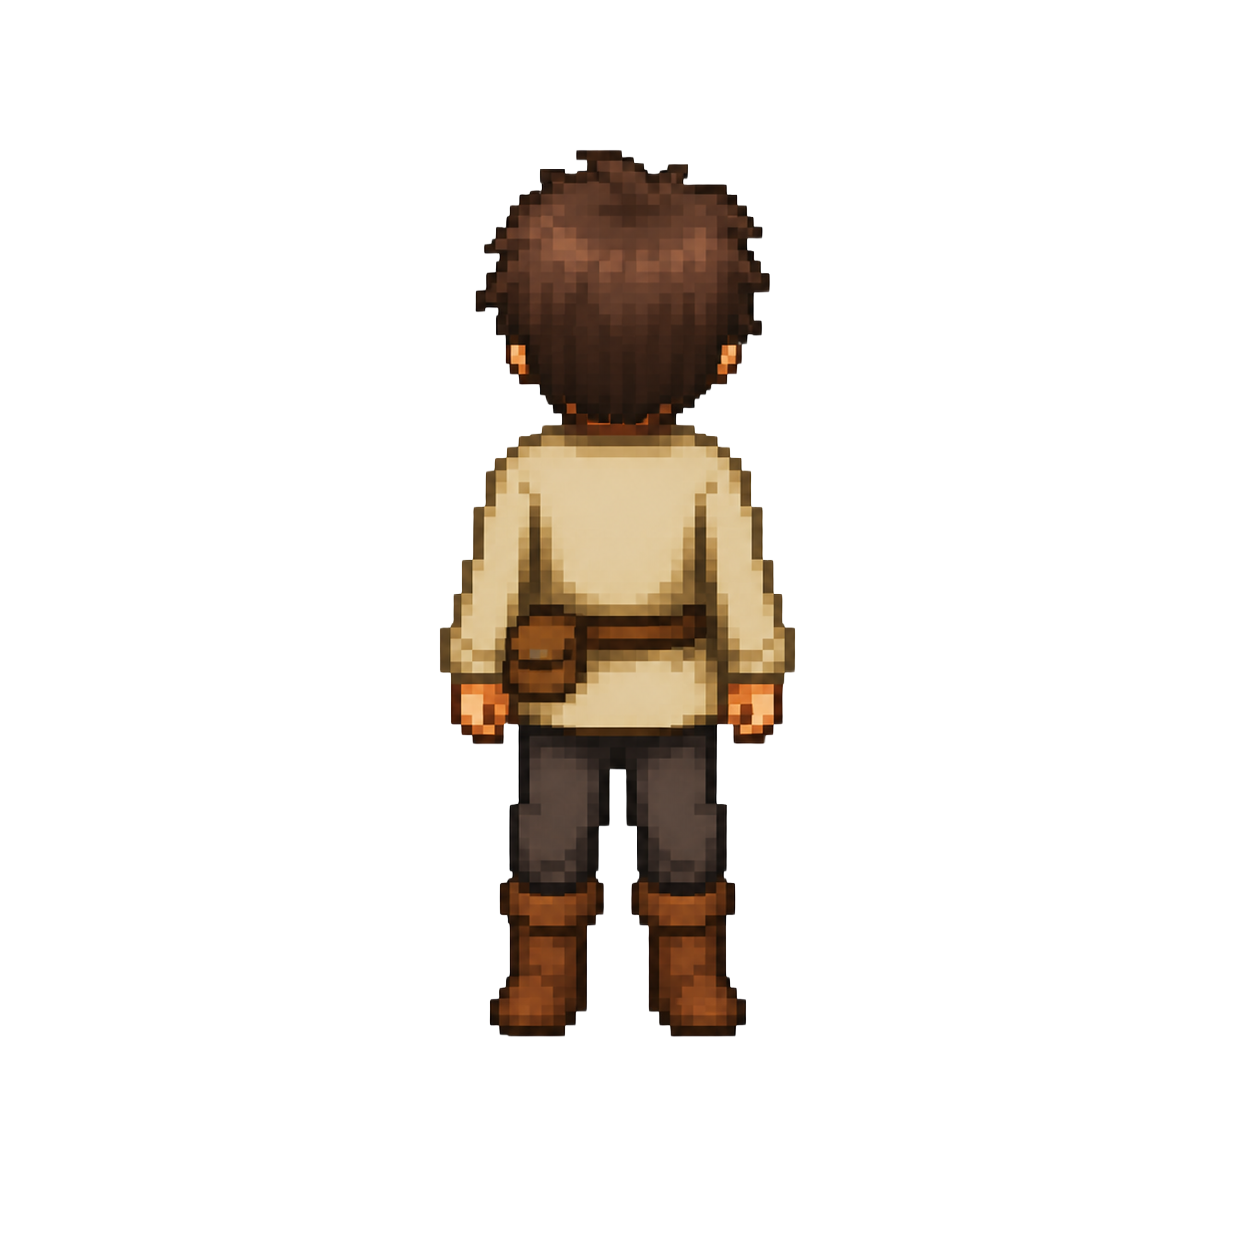
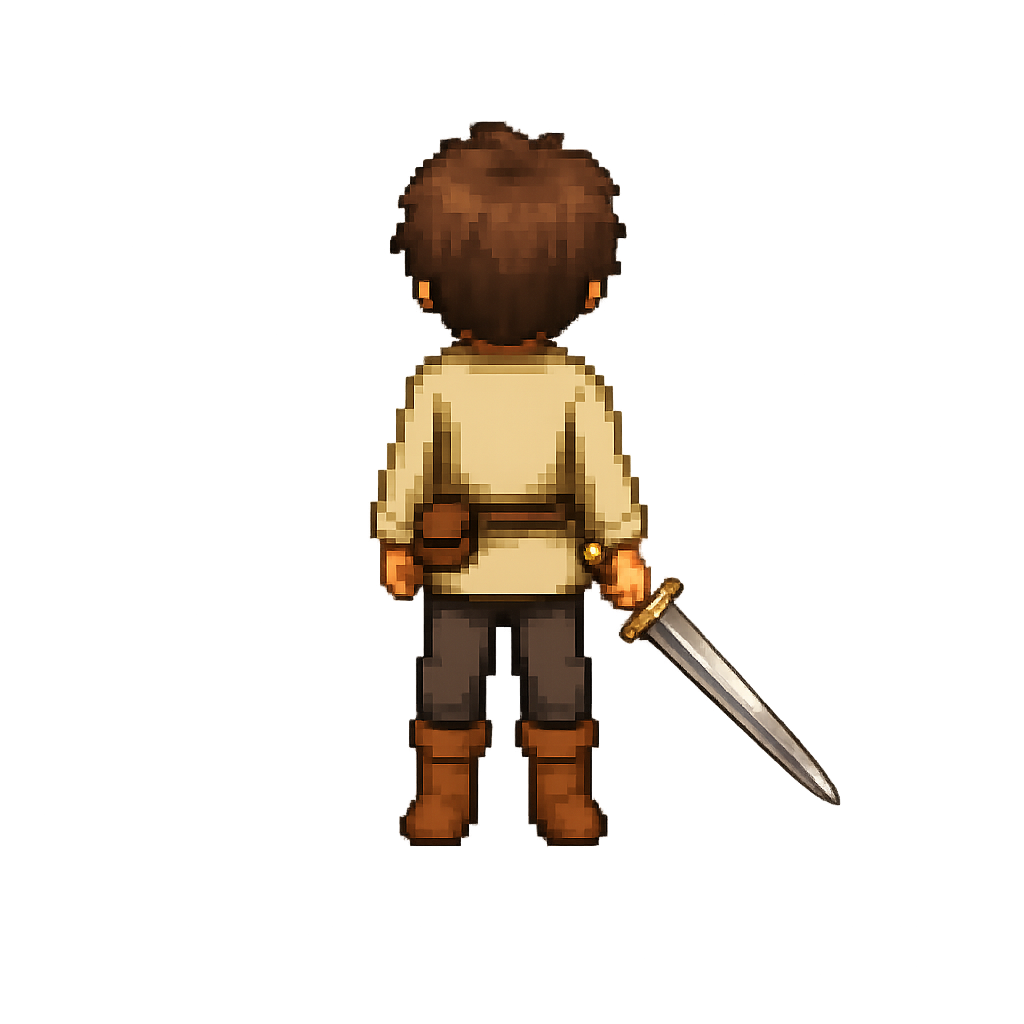
Update game files

diff --git a/data/enemyData.js b/data/enemyData.js
@@ -70,7 +70,7 @@ export const enemyData = {
     id: 'trainingDummy',
     name: 'Number Dummy',
     imageKey: 'enemy_number_dummy',
-    imageDisplay: { width: 95, height: 110, offsetX: 0, offsetY: -8 },
+    imageDisplay: { width: 95, height: 110, offsetX: 0, offsetY: -20 },
     hp: 18,
     attack: 2,
     goldReward: 0,
@@ -87,7 +87,7 @@ export const enemyData = {
     id: 'slime',
     name: 'Even Slime',
     imageKey: 'enemy_even_slime',
-    imageDisplay: { width: 100, height: 100, offsetX: 0, offsetY: 8 },
+    imageDisplay: { width: 100, height: 100, offsetX: 0, offsetY: 4 },
     hp: 30,
     attack: 3,
     goldReward: 10,
@@ -111,7 +111,7 @@ export const enemyData = {
     id: 'bat',
     name: 'Odd Bat',
     imageKey: 'enemy_odd_bat',
-    imageDisplay: { width: 120, height: 90, offsetX: 0, offsetY: -18 },
+    imageDisplay: { width: 120, height: 90, offsetX: 0, offsetY: -30 },
     hp: 24,
     attack: 3,
     goldReward: 12,
@@ -128,7 +128,7 @@ export const enemyData = {
     id: 'boss1',
     name: 'Even Gatekeeper',
     imageKey: 'enemy_even_gatekeeper',
-    imageDisplay: { width: 125, height: 125, offsetX: 0, offsetY: 0 },
+    imageDisplay: { width: 125, height: 125, offsetX: 0, offsetY: -12 },
     hp: 45,
     attack: 4,
     goldReward: 20,
@@ -152,7 +152,7 @@ export const enemyData = {
     id: 'boss2',
     name: 'Odd Gatekeeper',
     imageKey: 'enemy_odd_gatekeeper',
-    imageDisplay: { width: 135, height: 115, offsetX: 0, offsetY: -5 },
+    imageDisplay: { width: 170, height: 135, offsetX: 0, offsetY: -28 },
     hp: 55,
     attack: 4,
     goldReward: 25,
@@ -169,7 +169,7 @@ export const enemyData = {
     id: 'boss3',
     name: 'Prime Gatekeeper',
     imageKey: 'enemy_prime_gatekeeper',
-    imageDisplay: { width: 135, height: 135, offsetX: 0, offsetY: 0 },
+    imageDisplay: { width: 150, height: 150, offsetX: 0, offsetY: -25 },
     hp: 70,
     attack: 5,
     goldReward: 30,
@@ -186,7 +186,7 @@ export const enemyData = {
     id: 'finalBoss',
     name: 'Prime Dungeon Lord',
     imageKey: 'enemy_prime_dungeon_lord',
-    imageDisplay: { width: 170, height: 170, offsetX: 0, offsetY: -28 },
+    imageDisplay: { width: 170, height: 170, offsetX: 0, offsetY: -45 },
     hp: 100,
     attack: 6,
     goldReward: 60,
@@ -210,6 +210,7 @@ export const enemyData = {
     id: 'intermediate_stoneShell',
     name: 'Stone Shell',
     imageKey: 'enemy_intermediate_stone_shell',
+    imageDisplay: { width: 110, height: 110, offsetX: 0, offsetY: -5 },
     hp: 42,
     attack: 4,
     goldReward: 16,
@@ -231,6 +232,7 @@ export const enemyData = {
     id: 'intermediate_wildFang',
     name: 'Wild Fang',
     imageKey: 'enemy_intermediate_wild_fang',
+    imageDisplay: { width: 110, height: 110, offsetX: 0, offsetY: -5 },
     hp: 30,
     attack: 8,
     goldReward: 18,
@@ -249,7 +251,7 @@ export const enemyData = {
     id: 'intermediate_armorDummy',
     name: 'Armor Dummy',
     imageKey: 'enemy_intermediate_armor_dummy',
-    imageDisplay: { width: 100, height: 112, offsetX: 0, offsetY: -14 },
+    imageDisplay: { width: 100, height: 112, offsetX: 0, offsetY: -28 },
     hp: 20,
     attack: 4,
     goldReward: 24,
@@ -286,7 +288,7 @@ export const enemyData = {
     id: 'intermediate_evenStoneGatekeeper',
     name: 'Even Stone Gatekeeper',
     imageKey: 'enemy_intermediate_even_stone_gatekeeper',
-    imageDisplay: { width: 122, height: 122, offsetX: 0, offsetY: -6 },
+    imageDisplay: { width: 140, height: 140, offsetX: 0, offsetY: -18 },
     hp: 52,
     attack: 5,
     goldReward: 20,
@@ -310,7 +312,7 @@ export const enemyData = {
     id: 'intermediate_oddFangGatekeeper',
     name: 'Odd Fang Gatekeeper',
     imageKey: 'enemy_intermediate_odd_fang_gatekeeper',
-    imageDisplay: { width: 124, height: 112, offsetX: 0, offsetY: -14 },
+    imageDisplay: { width: 140, height: 130, offsetX: 0, offsetY: -35 },
     hp: 40,
     attack: 10,
     goldReward: 22,
@@ -329,7 +331,7 @@ export const enemyData = {
     id: 'intermediate_ironCoreGatekeeper',
     name: 'Iron Core Gatekeeper',
     imageKey: 'enemy_intermediate_iron_core_gatekeeper',
-    imageDisplay: { width: 126, height: 126, offsetX: 0, offsetY: -20 },
+    imageDisplay: { width: 150, height: 150, offsetX: 0, offsetY: -45 },
     hp: 58,
     attack: 6,
     goldReward: 24,
@@ -348,7 +350,7 @@ export const enemyData = {
     id: 'intermediate_armorCoreLord',
     name: 'Armor Core Lord',
     imageKey: 'enemy_intermediate_armor_core_lord',
-    imageDisplay: { width: 142, height: 142, offsetX: 0, offsetY: -28 },
+    imageDisplay: { width: 150, height: 150, offsetX: 0, offsetY: -50 },
     hp: 72,
     attack: 8,
     goldReward: 30,
@@ -384,7 +386,7 @@ export const enemyData = {
     id: 'challenge_training_scout',
     name: 'Chain Dummy',
     imageKey: 'challenge_chain_dummy',
-    imageDisplay: { width: 108, height: 120, offsetX: 0, offsetY: -18 },
+    imageDisplay: { width: 108, height: 120, offsetX: -2, offsetY: -30 },
     hp: 20,
     attack: 2,
     goldReward: 0,
@@ -416,7 +418,7 @@ export const enemyData = {
     id: 'challenge_chainCrawler',
     name: 'Chain Crawler',
     imageKey: 'challenge_chain_crawler',
-    imageDisplay: { width: 112, height: 112, offsetX: 0, offsetY: -8 },
+    imageDisplay: { width: 130, height: 130, offsetX: 0, offsetY: -15 },
     hp: 34,
     attack: 4,
     goldReward: 18,
@@ -436,7 +438,7 @@ export const enemyData = {
     id: 'challenge_splitwingImp',
     name: 'Splitwing Imp',
     imageKey: 'challenge_splitwing_imp',
-    imageDisplay: { width: 132, height: 108, offsetX: 0, offsetY: -40 },
+    imageDisplay: { width: 160, height: 140, offsetX: 5, offsetY: -55 },
     hp: 28,
     attack: 5,
     goldReward: 20,
@@ -456,7 +458,7 @@ export const enemyData = {
     id: 'challenge_balancedSentinel',
     name: 'Balanced Sentinel',
     imageKey: 'challenge_balanced_sentinel',
-    imageDisplay: { width: 150, height: 150, offsetX: 0, offsetY: -30 },
+    imageDisplay: { width: 150, height: 150, offsetX: 0, offsetY: -48 },
     hp: 46,
     attack: 5,
     goldReward: 24,
@@ -476,7 +478,7 @@ export const enemyData = {
     id: 'challenge_crookedSentinel',
     name: 'Crooked Sentinel',
     imageKey: 'challenge_crooked_sentinel',
-    imageDisplay: { width: 160, height: 160, offsetX: 0, offsetY: -34 },
+    imageDisplay: { width: 160, height: 160, offsetX: -10, offsetY: -55 },
     hp: 52,
     attack: 6,
     goldReward: 28,
@@ -496,7 +498,7 @@ export const enemyData = {
     id: 'challenge_primeWarden',
     name: 'Prime Warden',
     imageKey: 'challenge_prime_warden',
-    imageDisplay: { width: 160, height: 160, offsetX: 0, offsetY: -34 },
+    imageDisplay: { width: 170, height: 170, offsetX: 0, offsetY: -55 },
     hp: 60,
     attack: 7,
     goldReward: 34,
@@ -519,7 +521,7 @@ export const enemyData = {
     id: 'challenge_chainOracleLord',
     name: 'Chain Oracle Lord',
     imageKey: 'challenge_chain_oracle_lord',
-    imageDisplay: { width: 195, height: 195, offsetX: 0, offsetY: -20, shadowOffsetY: 44 },
+    imageDisplay: { width: 195, height: 195, offsetX: 0, offsetY: -70},
     hp: 78,
     attack: 8,
     goldReward: 48,

diff --git a/scenes/battle/BattleLayoutMixin.js b/scenes/battle/BattleLayoutMixin.js
@@ -36,13 +36,13 @@ export const BattleLayoutMixin = {
     const playerStatusH = 148;
     const hpBarWidth = 220;
     const playerStandX = 225;
-    const playerStandY = 360;
-    const playerCircleW = 210;
-    const playerCircleH = 118;
-    const enemyStandX = 585;
-    const enemyStandY = 225;
-    const enemyCircleW = 190;
-    const enemyCircleH = 106;
+    const playerStandY = 350;
+    const playerCircleW = 300;
+    const playerCircleH = 130;
+    const enemyStandX = 550;
+    const enemyStandY = 220;
+    const enemyCircleW = 300;
+    const enemyCircleH = 140;
     const panelDepth = 20;
     const uiTextDepth = 30;
     const colors = {
@@ -216,7 +216,7 @@ export const BattleLayoutMixin = {
       .setVisible(!enemyHasImage);
 
     const playerVisualX = playerStandX;
-    const playerVisualY = playerStandY - 34;
+    const playerVisualY = playerStandY - 52;
 
     if (this.textures.exists('battleBlueMagicCircle')) {
       this.add
@@ -225,7 +225,7 @@ export const BattleLayoutMixin = {
         .setAlpha(0.84);
     }
     this.playerSpriteShadow = this.add.ellipse(playerStandX, playerStandY, playerCircleW, 48, colors.shadow, 0.34);
-    this.playerSprite = this.add.image(playerVisualX, playerVisualY, 'playerBack').setScale(0.12);
+    this.playerSprite = this.add.image(playerVisualX, playerVisualY, 'playerBack').setScale(0.16);
     this.playerSpriteText = null;
 
     this.commandMenuRowPositions = Array.from({ length: 3 }, (_, index) => ({
